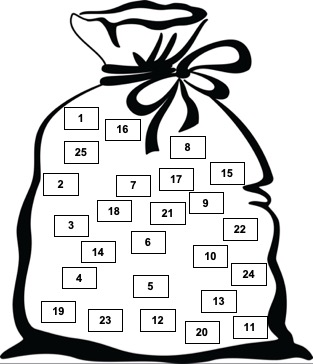
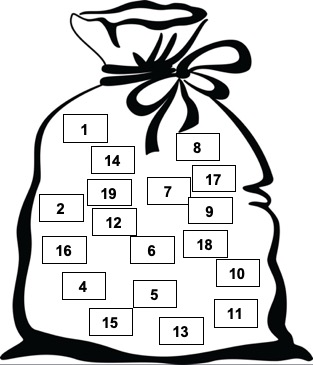
afternoon control

Changed region(s): [[0.115, 0.272, 0.8626, 0.9368], [0.115, 0.8159, 0.1438, 0.8764]]

diff --git a/Intro/templates/Intro/Page1.html b/Intro/templates/Intro/Page1.html
@@ -13,9 +13,11 @@ BENVENUTO
     <p />
     <li> Lo studio vuole indagare le scelte e le opinioni personali dei melicoltori Trentini riguardo al Fondo IST Mele e i redditi da mele.</li>
     <p />
-    <li> Lo studio è composto di 4 Fasi durante le quali Lei dovrà compiere delle scelte che le daranno la possibilità di guadagnare delle somme di denaro. La preghiamo dunque di fare attenzione alle istruzioni.
+    <li> Lo studio è composto di 3 Fasi durante le quali Lei dovrà compiere delle scelte che le daranno la possibilità di guadagnare delle somme di denaro. La preghiamo dunque di fare attenzione alle istruzioni.
 </li>
     <p />
+    <li>Alla fine dello studio è previsto un breve questionario.</li>
+    <p></p>
     <li> Siamo interessati alle sue opinioni e preferenze personali. Non ci sono risposte giuste o sbagliate.
     <p />
     <li>Le ricordiamo che tutte le informazioni che condividerà nello studio saranno completamente anonime.</li>

diff --git a/Fase2/templates/Fase2/ISTPage4.html b/Fase2/templates/Fase2/ISTPage4.html
@@ -16,7 +16,7 @@
         <p></p>
         <li>Lo sconto sul contributo è di 175€/ha. Quindi il costo effettivo per il melicoltore è di 250€/ ha</li>
         <p></p>
-        <li>Vi sia nel 2022 un calo del 20% del reddito rispetto al reddito medio (triennio precedente)</li>
+        <li>Vi sia nel 2022 un calo del 40% del reddito rispetto al reddito medio (triennio precedente)</li>
         <p></p>
         <li>Il Fondo IST rimborsa il 70% del calo</li>
     </ul>
@@ -55,7 +55,7 @@
         </tr>
          <tr style="background-color:#fdc5a1">
             <th scope="col"  colspan="1" style="text-align:left"> Reddito/ ettaro Finale  </th>
-            <td scope="col"  colspan="1" style="text-align:center"> 19425.48 €/ettaro </td>
+            <td scope="col"  colspan="1" style="text-align:center"> 19436,69 €/ettaro </td>
             <td scope="col"  colspan="1" style="text-align:center"> 13422.74 €/ettaro</td>
         </tr>
     </table>

diff --git a/Fase2SF/templates/Fase2SF/ISTPage4.html b/Fase2SF/templates/Fase2SF/ISTPage4.html
@@ -16,7 +16,7 @@
         <p></p>
         <li>Lo sconto sul contributo è di 175€/ha. Quindi il costo effettivo per il melicoltore è di 250€/ ha</li>
         <p></p>
-        <li>Vi sia nel 2022 un calo del 20% del reddito rispetto al reddito medio (triennio precedente)</li>
+        <li>Vi sia nel 2022 un calo del 40% del reddito rispetto al reddito medio (triennio precedente)</li>
         <p></p>
         <li>Il Fondo IST rimborsa il 70% del calo</li>
     </ul>
@@ -55,7 +55,7 @@
         </tr>
          <tr style="background-color:#fdc5a1">
             <th scope="col"  colspan="1" style="text-align:left"> Reddito/ ettaro Finale  </th>
-            <td scope="col"  colspan="1" style="text-align:center"> 19425.48 €/ettaro </td>
+            <td scope="col"  colspan="1" style="text-align:center"> 19436,69 €/ettaro </td>
             <td scope="col"  colspan="1" style="text-align:center"> 13422.74 €/ettaro</td>
         </tr>
     </table>

diff --git a/Fase2/templates/Fase2/IstruzioniPage4.html b/Fase2/templates/Fase2/IstruzioniPage4.html
@@ -15,9 +15,9 @@
         <p>&nbsp;</p>
                 <p>&nbsp;</p>
 
-      <li>I suoi guadagni dipendono dalla sua scelta in una delle 25 situazioni.</li>
+      <li>I suoi guadagni dipendono dalla sua scelta in una delle 19 situazioni.</li>
         <p></p>
-      <li>Una delle situazioni soltanto sarà scelta casualmente da un urna, la quale contiene 25 biglietti numerati.</li>
+      <li>Una delle situazioni soltanto sarà scelta casualmente da un urna, la quale contiene 19 biglietti numerati.</li>
         <p></p>
       <li>Il biglietto estratto determinerà quale scelta verrà usata per la quantificazione dei vostri guadagni.</li>
         <p></p>

diff --git a/Fase2SF/templates/Fase2SF/IstruzioniPage4.html b/Fase2SF/templates/Fase2SF/IstruzioniPage4.html
@@ -15,9 +15,9 @@
         <p>&nbsp;</p>
                 <p>&nbsp;</p>
 
-      <li>I suoi guadagni dipendono dalla sua scelta in una delle 25 situazioni.</li>
+      <li>I suoi guadagni dipendono dalla sua scelta in una delle 19 situazioni.</li>
         <p></p>
-      <li>Una delle situazioni soltanto sarà scelta casualmente da un urna, la quale contiene 25 biglietti numerati.</li>
+      <li>Una delle situazioni soltanto sarà scelta casualmente da un urna, la quale contiene 19 biglietti numerati.</li>
         <p></p>
       <li>Il biglietto estratto determinerà quale scelta verrà usata per la quantificazione dei vostri guadagni.</li>
         <p></p>

diff --git a/Intro/templates/Intro/Page3.html b/Intro/templates/Intro/Page3.html
@@ -13,7 +13,7 @@ METODO DI PAGAMENTO
     <p />
     <li> In ciascuna delle fasi dello studio avrà la possibilità di guadagnare un compenso aggiuntivo di <b> 25 €</b> .</li>
     <p />
-    <li> Solo una delle 4 Fasi verrà estratta in modo casuale e usata per determinare i vostri guadagni.</li>
+    <li> Solo una delle 3 Fasi verrà estratta in modo casuale e usata per determinare i vostri guadagni.</li>
     <p />
     <li> Solo {{n_winners}} {% if n_winners == 1 %} dei partecipanti allo studio di oggi verrà estratto {% else %} partecipanti allo studio di oggi verrano estratti {% endif %}   per il ricevere il compenso aggiuntivo.</li>
     <p />

diff --git a/Fase3/templates/Fase3/IstruzioniPage1.html b/Fase3/templates/Fase3/IstruzioniPage1.html
@@ -20,7 +20,7 @@
         <li><b>NON-ADERIRE</b> oggi (Gennaio 2022) alla copertura mutualistica annuale del Fondo IST</li>
       </ul>
 &nbsp;
-    <p>Le 25 situazioni di scelta sono divise in tre gruppi: Gruppo1, Gruppo 2 e Gruppo 3</p>
+    <p>Le 19 situazioni di scelta sono divise in tre gruppi: Gruppo1, Gruppo 2 e Gruppo 3</p>
   <p> Nelle Scelte che Le verrano presentate varierà la quota fissa €/ha di adesione al Fondo IST.</p>
 
 

diff --git a/Fase3SF/templates/Fase3SF/IstruzioniPage1.html b/Fase3SF/templates/Fase3SF/IstruzioniPage1.html
@@ -20,7 +20,7 @@
         <li><b>NON-ADERIRE</b> oggi (Gennaio 2022) alla copertura mutualistica annuale del Fondo IST</li>
       </ul>
 &nbsp;
-    <p>Le 25 situazioni di scelta sono divise in tre gruppi: Gruppo1, Gruppo 2 e Gruppo 3</p>
+    <p>Le 19 situazioni di scelta sono divise in tre gruppi: Gruppo1, Gruppo 2 e Gruppo 3</p>
   <p> Nelle Scelte che Le verrano presentate varierà la quota fissa €/ha di adesione al Fondo IST.</p>
 
 

diff --git a/Fase2/templates/Fase2/MyWaitPage.html b/Fase2/templates/Fase2/MyWaitPage.html
@@ -10,7 +10,7 @@
 
 <ul>
 	<p></p>
-	<li>Ricordi che solo una delle 25 situazioni verrà estratta e usata per la quantificazione dei suoi guadagni in nella Fase 2.</li>
+	<li>Ricordi che solo una delle 19 situazioni verrà estratta e usata per la quantificazione dei suoi guadagni in nella Fase 2.</li>
 	<p></p>
 	<li>Il reddito ottenuto dalla sua scelta sarà convertito ai fini del pagamento nel seguente modo:</li>
 </ul>

diff --git a/Fase2SF/templates/Fase2SF/MyWaitPage.html b/Fase2SF/templates/Fase2SF/MyWaitPage.html
@@ -10,7 +10,7 @@
 
 <ul>
 	<p></p>
-	<li>Ricordi che solo una delle 25 situazioni verrà estratta e usata per la quantificazione dei suoi guadagni nella Fase 2.</li>
+	<li>Ricordi che solo una delle 19 situazioni verrà estratta e usata per la quantificazione dei suoi guadagni nella Fase 2.</li>
 	<p></p>
 	<li>Il reddito ottenuto dalla sua scelta sarà convertito ai fini del pagamento nel seguente modo:</li>
 </ul>

diff --git a/Fase3/templates/Fase3/MyWaitPage.html b/Fase3/templates/Fase3/MyWaitPage.html
@@ -10,7 +10,7 @@
 
 <ul>
 	<p></p>
-	<li>Ricordi che solo una delle 25 situazioni verrà estratta e usata per la quantificazione dei suoi guadagni nella Fase 3.</li>
+	<li>Ricordi che solo una delle 19 situazioni verrà estratta e usata per la quantificazione dei suoi guadagni nella Fase 3.</li>
 	<p></p>
 	<li>Il reddito ottenuto dalla sua scelta sarà convertito ai fini del pagamento nel seguente modo:</li>
 </ul>

diff --git a/Fase3SF/templates/Fase3SF/MyWaitPage.html b/Fase3SF/templates/Fase3SF/MyWaitPage.html
@@ -10,7 +10,7 @@
 
 <ul>
 	<p></p>
-	<li>Ricordi che solo una delle 25 situazioni verrà estratta e usata per la quantificazione dei suoi guadagni nella Fase 3.</li>
+	<li>Ricordi che solo una delle 19 situazioni verrà estratta e usata per la quantificazione dei suoi guadagni nella Fase 3.</li>
 	<p></p>
 	<li>Il reddito ottenuto dalla sua scelta sarà convertito ai fini del pagamento nel seguente modo:</li>
 </ul>
